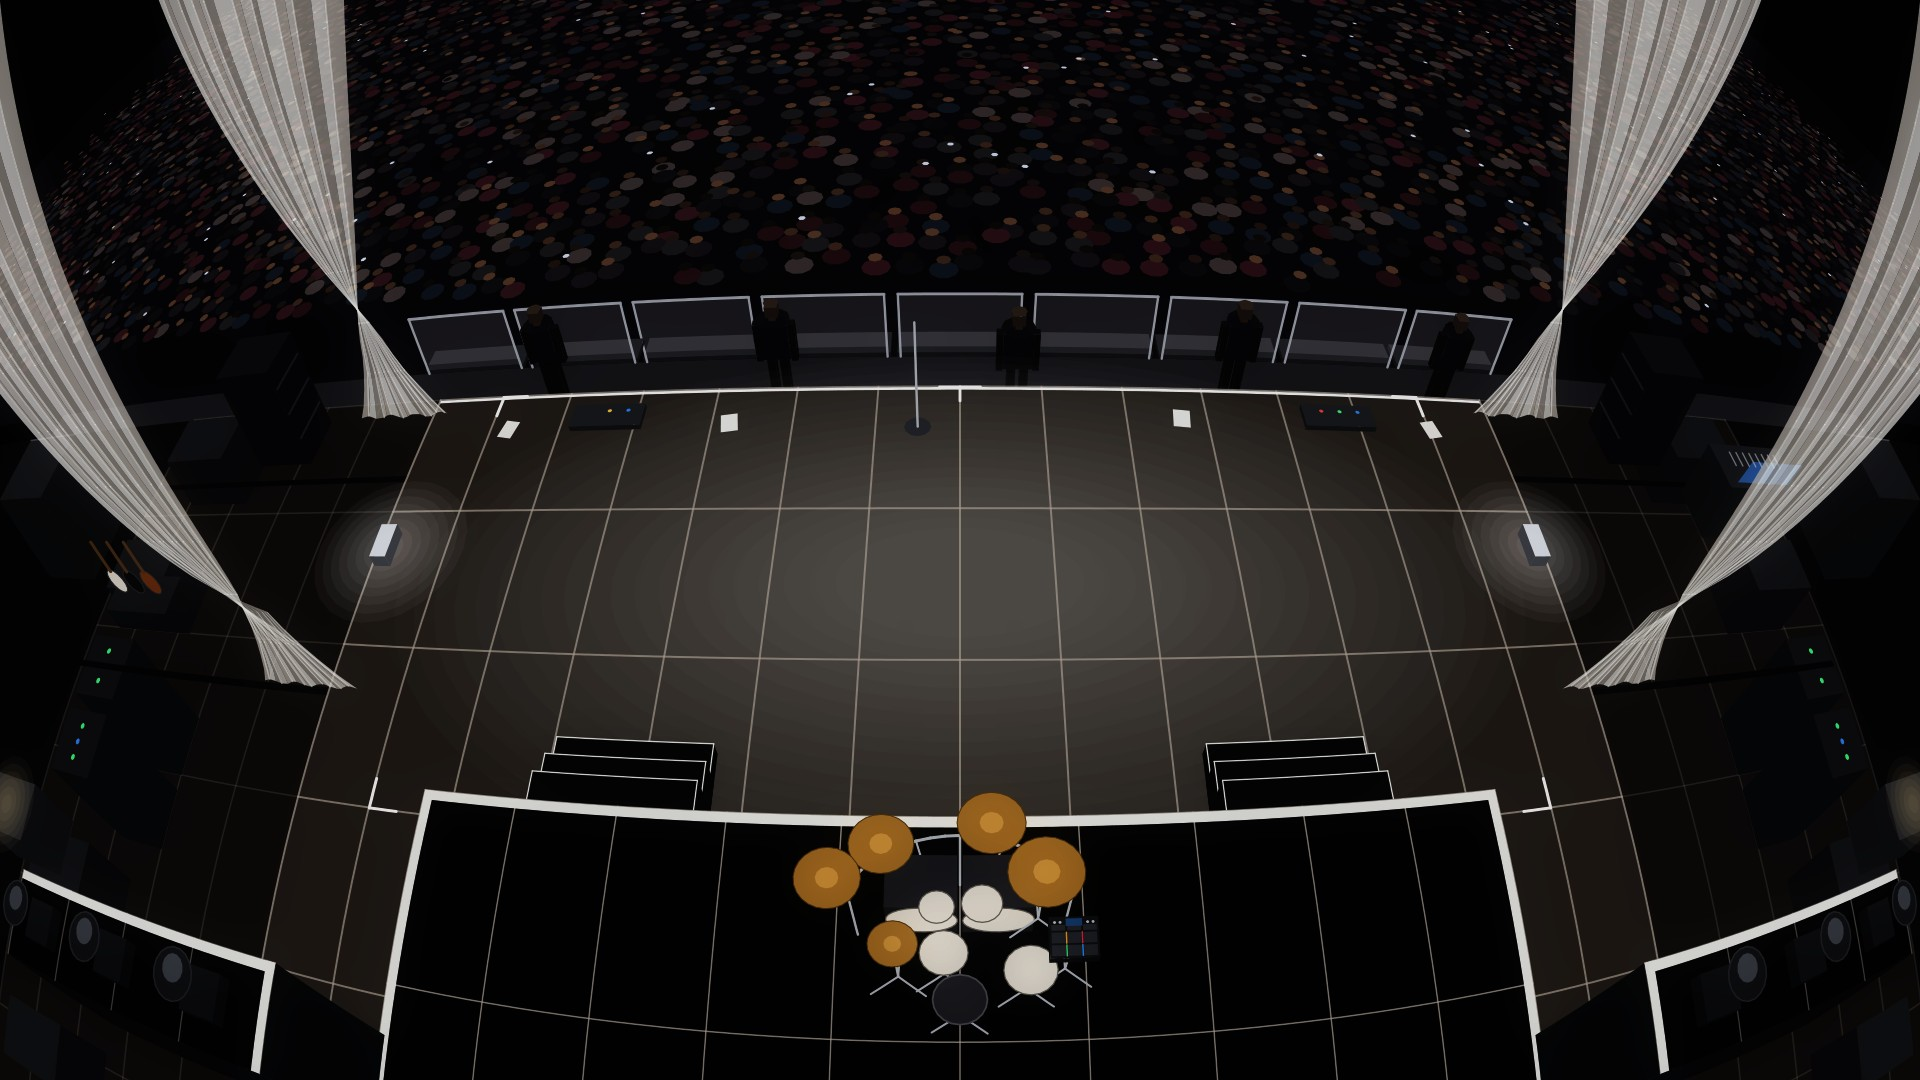
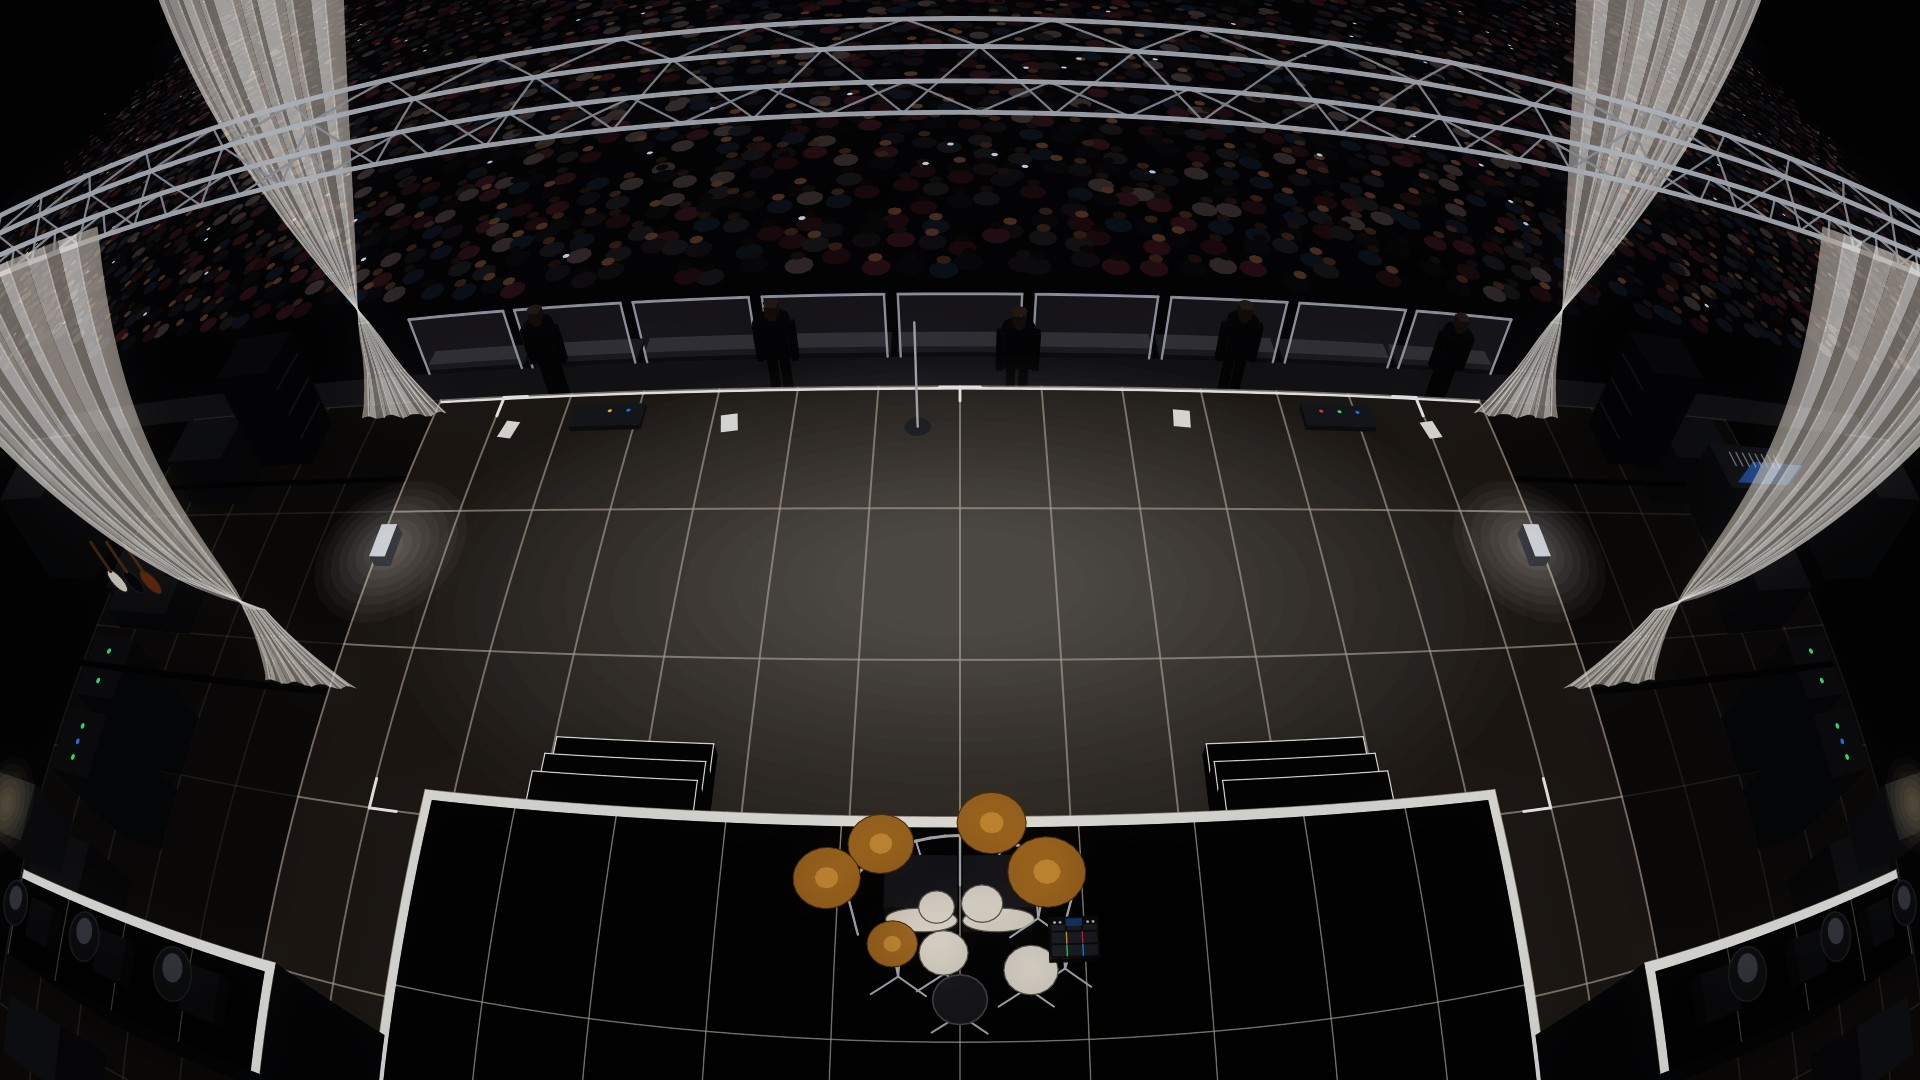
chore(gallery): hang the Concert's mid-stage legs from a mid truss

Changed region(s): [[0.0, 0.0, 1.0, 0.55], [0.8438, 0.55, 0.875, 0.6111], [0.125, 0.55, 0.1562, 0.6111]]

diff --git a/scripts/gen_concert_default.py b/scripts/gen_concert_default.py
@@ -3,15 +3,15 @@
 # Copyright (C) 2026 OpenFollow Project
 """Render the Media Gallery's Concert default: a concert stage seen from a camera on the back truss.
 
-The camera hangs on the upstage back truss behind the band riser and looks steeply down over the
-stage into the crowd: dark brown 1 x 2 m stage decks under a white wash, running on, darker, into
-the wings; the band riser with black treads and a white safety edge, and a higher deck with moving
-heads on each side of it; white tape along the lip, the mic stand, pedalboards and setlists at the
-stage edge; two sheer white legs tied back on each side, at the downstage corner and mid-stage;
-sidefills, amp racks, a monitor desk, a guitar world and cases in the wings; front fills in the pit
-before the crowd barrier, and the crowd. The picture is bowed by a 2.8 mm M12 lens through the overlay's
-own model, so a station set to the printed camera and lens draws its grid on the deck seams. Tape
-marks the grid's corners and the Reference Point.
+The camera hangs on the upstage back truss over the back of the band riser and looks down over the stage
+into the crowd: dark brown 1 x 2 m stage decks under a white wash, running on, darker, into the wings;
+the band riser with black treads, a white safety edge and a drum kit with a sampling pad, and a higher
+deck with moving heads on each side of it; white tape along the lip, the mic stand, pedalboards and
+setlists at the stage edge; two sheer white legs tied back on each side, at the downstage corner and
+mid-stage, where they hang from a box truss across the stage; sidefills, amp racks, a monitor desk, a
+guitar world and cases in the wings; front fills in the pit before the crowd barrier, and the crowd. The
+picture is bowed by a 2.8 mm M12 lens through the overlay's own model, so a station set to the printed
+camera and lens draws its grid on the deck seams. Tape marks the grid's corners and the Reference Point.
 
 Needs ``rsvg-convert`` (librsvg) and Pillow. Prints the camera, the lens pair, the grid and the
 corners' pixels.
@@ -53,12 +53,15 @@ WING_X, OFF_X = STAGE_X + 5.0, 20.0  # the deck runs on, darker, into the wings;
 DECK_W, DECK_D = 1.0, 2.0  # 1 m across the front, 2 m running back
 FLOOR_Z = -1.8  # house floor below the deck
 PIT_Y = LIP_Y - 2.7  # barricade
-LEG_TOP, LEG_KNOT = 11.0, 1.5  # leg height and tie-back height
-# Two tied-back legs per side: plane (y), outer and inner edge at the top, the tie (x, this side), and
-# whether the cloth falls straight from the top and curves only toward the tie (the downstage pair).
+LEG_KNOT = 1.5  # tie-back height
+# The mid truss across the stage: plane (y), bottom chord height, box size and half span, all in metres.
+MID_TRUSS_Y, MID_TRUSS_Z, TRUSS_BOX, TRUSS_HALF_SPAN = 4.6, 6.3, 0.4, 12.5
+# Two tied-back legs per side: plane (y), outer and inner edge at the top, the tie (x, this side), the height
+# they hang from, and whether the cloth falls straight from the top and curves only toward the tie (the
+# downstage pair, from the grid out of the picture; the mid-stage pair hangs from the mid truss).
 LEGS = (
-    (LIP_Y + 0.3, STAGE_X + 2.5, STAGE_X - 1.2, STAGE_X + 0.5, True),
-    (4.6, STAGE_X + 4.5, STAGE_X - 0.4, STAGE_X + 0.3, False),
+    (LIP_Y + 0.3, STAGE_X + 2.5, STAGE_X - 1.2, STAGE_X + 0.5, 11.0, True),
+    (MID_TRUSS_Y, STAGE_X + 4.5, STAGE_X - 0.4, STAGE_X + 0.3, MID_TRUSS_Z, False),
 )
 GRID_W, GRID_D, GRID_SPACING = 12.0, 6.0, 2.0  # grid lines on every second deck seam, lip to riser
 CORNERS = {
@@ -499,18 +502,18 @@ def side_risers(out: list[str]) -> None:
             out.append(poly(disc(xm, ym - 0.05, h + 0.56, 0.13, 14), "#5a5e66"))
 
 
-def leg(out: list[str], sgn: int, y: float, x_out: float, x_in: float, x_tie: float, falls: bool) -> None:
+def leg(out: list[str], sgn: int, y: float, x_out: float, x_in: float, x_tie: float, top: float, falls: bool) -> None:
     """A sheer white leg hung above the frame and tied back: drawn as fold strips, lit and shaded in
     turn, that hang from the top, bunch into the tie along a sagging sweep and fall below it in a bell."""
     folds, steps = 18, 40
-    zs = np.linspace(LEG_TOP, 0.0, steps)
+    zs = np.linspace(top, 0.0, steps)
 
     def at(u: float, z: float) -> float:
         """Where the fold ``u`` (0 outer edge, 1 inner edge at the top) hangs at height ``z``."""
         x_top = x_out + (x_in - x_out) * u
         x_knot = x_tie + (u - 0.5) * 0.35  # folds bunched across the tie
         if z >= LEG_KNOT:
-            t = (z - LEG_KNOT) / (LEG_TOP - LEG_KNOT)
+            t = (z - LEG_KNOT) / (top - LEG_KNOT)
             if falls:  # straight down from the top, curving in only toward the tie
                 pull, sag = 1.0 - (1.0 - t) ** 2.2, 0.15 * u * math.sin(math.pi * t)
             else:  # stays near its top position, then sweeps in; the inner folds sag outward on the way
@@ -534,6 +537,24 @@ def leg(out: list[str], sgn: int, y: float, x_out: float, x_in: float, x_tie: fl
         if k % 2 == 0:  # a highlight along every other fold
             for p0, p1 in zip(fold[::3], fold[3::3], strict=False):
                 out.append(line(p0, p1, "#fbfaf8", 1.4, 0.55))
+
+
+def mid_truss(out: list[str]) -> None:
+    """A silver box truss across the stage at mid-stage, on hoist chains that run up out of the picture: four
+    chords, and lacing zigzagging along each face."""
+    y0, y1 = MID_TRUSS_Y - TRUSS_BOX / 2, MID_TRUSS_Y + TRUSS_BOX / 2
+    z0, z1 = MID_TRUSS_Z, MID_TRUSS_Z + TRUSS_BOX
+    span = TRUSS_HALF_SPAN
+    for x in (-9.0, -3.0, 3.0, 9.0):  # hoist chains
+        out.append(line((x, MID_TRUSS_Y, z1), (x, MID_TRUSS_Y, 14.0), "#55575d", 2.0))
+    xs = np.arange(-span, span + 1e-6, TRUSS_BOX)
+    faces = (((y1, z0), (y1, z1)), ((y0, z0), (y1, z0)), ((y0, z1), (y1, z1)))  # upstage, bottom and top
+    for (ya, za), (yb, zb) in faces:
+        for k, (xa, xb) in enumerate(pairwise(xs)):
+            a, b = ((ya, za), (yb, zb)) if k % 2 == 0 else ((yb, zb), (ya, za))
+            out.append(line((xa, a[0], a[1]), (xb, b[0], b[1]), "#a9adb4", 2.4))
+    for y, z in ((y0, z0), (y0, z1), (y1, z0), (y1, z1)):  # chords
+        out.append(line((-span, y, z), (span, y, z), C_SILVER, 5.0))
 
 
 def side_lights(out: list[str]) -> None:
@@ -572,9 +593,11 @@ def build_svg() -> str:
     side_lights(out)
     riser(out)
     side_risers(out)
-    for y, x_out, x_in, x_tie, falls in LEGS:  # downstage pair first, the nearer pair over it
+    for k, (y, x_out, x_in, x_tie, top, falls) in enumerate(LEGS):  # downstage pair first, the nearer over it
+        if k == 1:
+            mid_truss(out)  # in front of the downstage pair, behind the cloth that hangs from it
         for sgn in (-1, 1):
-            leg(out, sgn, y, x_out, x_in, x_tie, falls)
+            leg(out, sgn, y, x_out, x_in, x_tie, top, falls)
     out.append("</svg>\n")
     return "\n".join(part for part in out if part)
 
